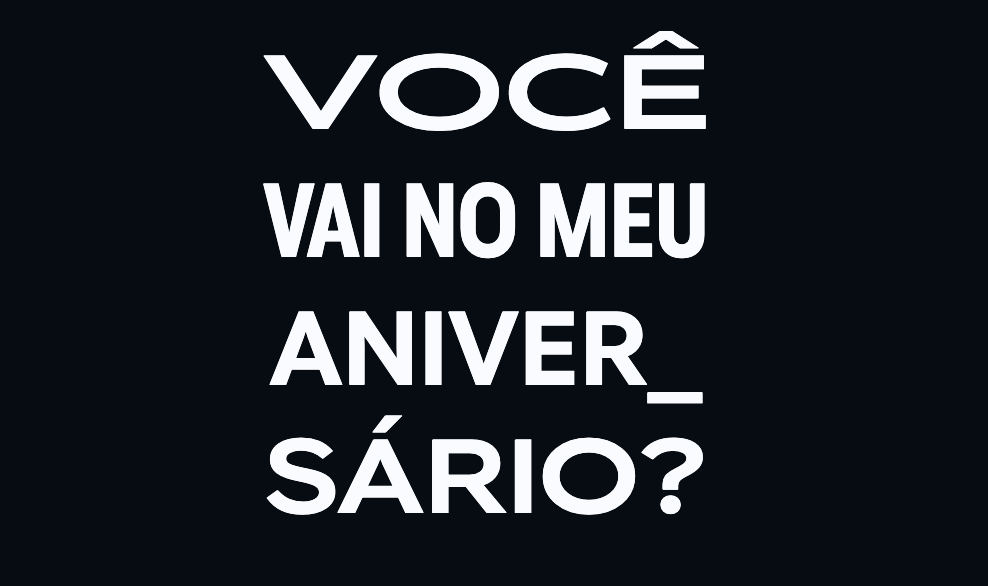
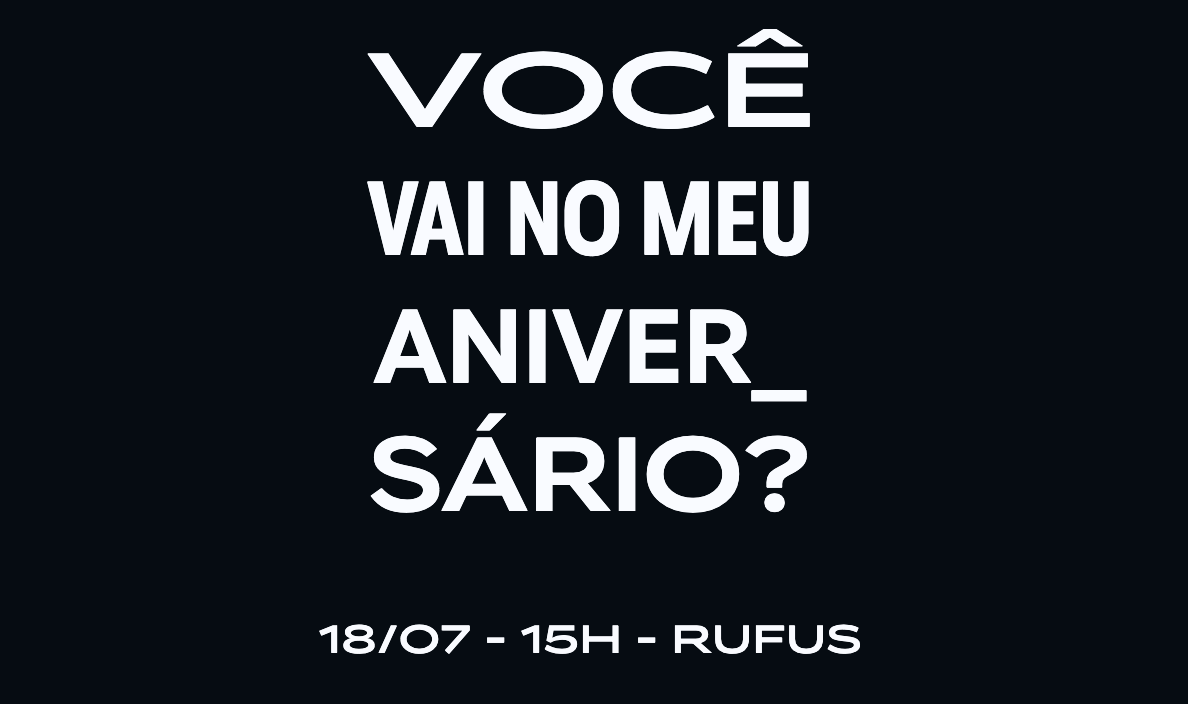
Update invite preview title

Changed region(s): [[0.2429, 0.0307, 0.7287, 0.9522]]

diff --git a/index.html b/index.html
@@ -5,17 +5,17 @@
     <meta name="viewport" content="width=device-width, initial-scale=1, viewport-fit=cover" />
     <meta name="theme-color" content="#050d13" />
     <meta name="description" content="Convite de aniversário do Marcelo" />
-    <meta property="og:title" content="Niver do Marcelo" />
+    <meta property="og:title" content="Niver do Marcelo - 18/07" />
     <meta property="og:description" content="Você vai no meu aniversário?" />
     <meta property="og:image" content="https://marcelorubens.github.io/niver-marcelo/assets/preview.png" />
-    <meta property="og:image:width" content="988" />
-    <meta property="og:image:height" content="586" />
+    <meta property="og:image:width" content="1188" />
+    <meta property="og:image:height" content="704" />
     <meta property="og:type" content="website" />
     <meta name="twitter:card" content="summary_large_image" />
-    <meta name="twitter:title" content="Niver do Marcelo" />
+    <meta name="twitter:title" content="Niver do Marcelo - 18/07" />
     <meta name="twitter:description" content="Você vai no meu aniversário?" />
     <meta name="twitter:image" content="https://marcelorubens.github.io/niver-marcelo/assets/preview.png" />
-    <title>Niver do Marcelo</title>
+    <title>Niver do Marcelo - 18/07</title>
     <link rel="icon" href="assets/favicon.svg" type="image/svg+xml" />
     <link rel="preload" href="vendor/motions/mousey-snake-hip-hop.glb" as="fetch" crossorigin />
     <link rel="preload" href="vendor/motions/mousey-samba-dancing.glb" as="fetch" crossorigin />